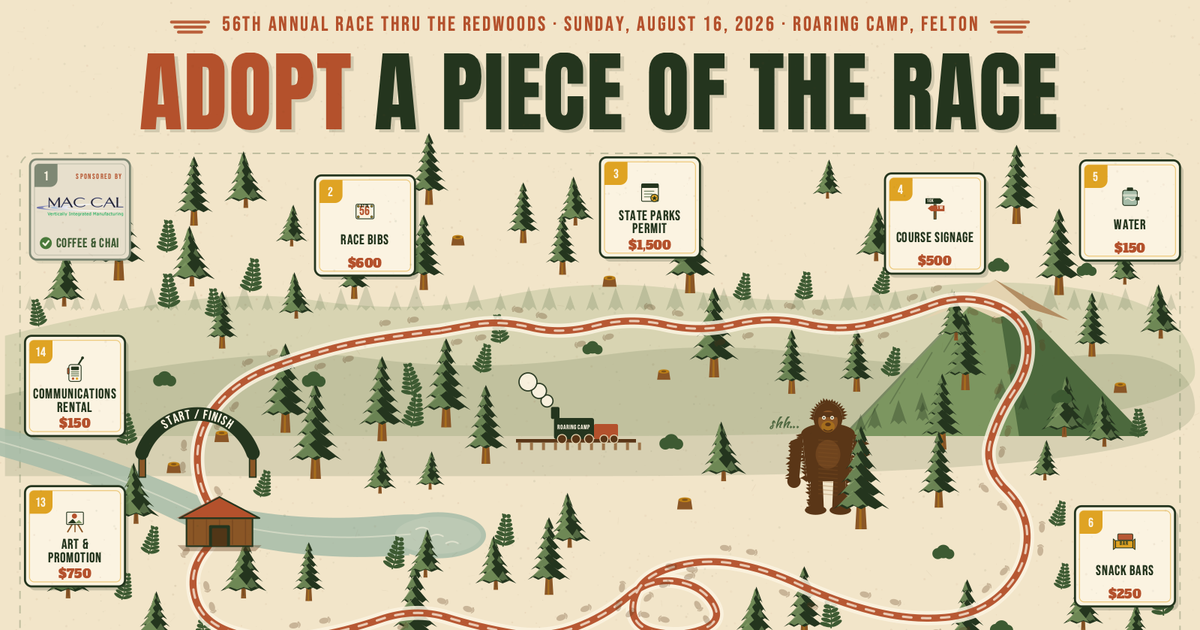
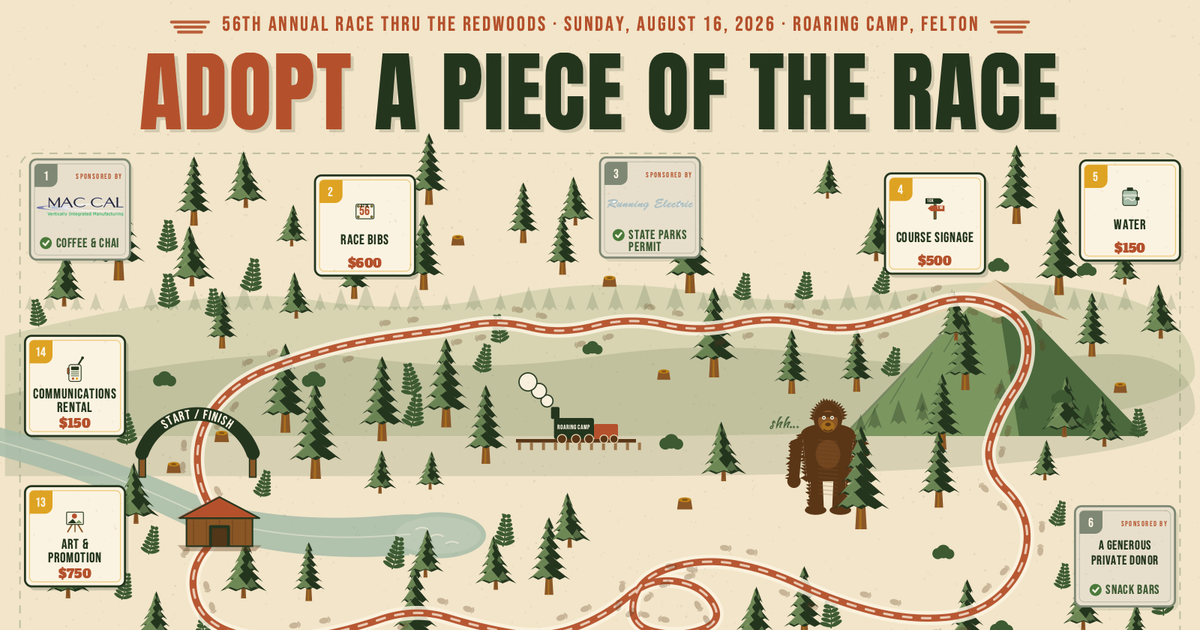
deploy: c5d8d52a4024b1d477da09c6f39f513cd0139389

Changed region(s): [[0.8942, 0.7841, 0.9867, 0.9651], [0.4933, 0.2413, 0.5858, 0.4222]]

diff --git a/sponsors/piece/index.html b/sponsors/piece/index.html
@@ -70,17 +70,11 @@
         <div class="piece-hotspot-zone piece-hotspot-zone--2">
           <a class="piece-hotspot" href="https://forms.gle/Kpu1gbuBeyG7V8hHA" target="_blank">Sponsor This &mdash; $600</a>
         </div>
-        <div class="piece-hotspot-zone piece-hotspot-zone--3">
-          <a class="piece-hotspot" href="https://forms.gle/Kpu1gbuBeyG7V8hHA" target="_blank">Sponsor This &mdash; $1,500</a>
-        </div>
         <div class="piece-hotspot-zone piece-hotspot-zone--4">
           <a class="piece-hotspot" href="https://forms.gle/Kpu1gbuBeyG7V8hHA" target="_blank">Sponsor This &mdash; $500</a>
         </div>
         <div class="piece-hotspot-zone piece-hotspot-zone--5">
           <a class="piece-hotspot" href="https://forms.gle/Kpu1gbuBeyG7V8hHA" target="_blank">Sponsor This &mdash; $150</a>
-        </div>
-        <div class="piece-hotspot-zone piece-hotspot-zone--6">
-          <a class="piece-hotspot" href="https://forms.gle/Kpu1gbuBeyG7V8hHA" target="_blank">Sponsor This &mdash; $250</a>
         </div>
         <div class="piece-hotspot-zone piece-hotspot-zone--7">
           <a class="piece-hotspot" href="https://forms.gle/Kpu1gbuBeyG7V8hHA" target="_blank">Sponsor This &mdash; $700</a>
@@ -130,14 +124,11 @@
         </div>
 
         <div class="col-sm-6 col-lg-4 mb-3">
-          <div class="card h-100 piece-card">
+          <div class="card h-100 piece-card piece-card--claimed">
             <div class="card-body">
-              <h5 class="card-title d-flex justify-content-between align-items-start">
-                <span>3. State Parks Permit</span>
-                <span class="piece-card-price">$1,500</span>
-              </h5>
+              <h5 class="card-title">3. State Parks Permit</h5>
+              <p class="card-text piece-card-claimed-by"><span aria-hidden="true">&#10003;</span> Sponsored by Running Electric</p>
             </div>
-            <a class="piece-card-cta" href="https://forms.gle/Kpu1gbuBeyG7V8hHA" target="_blank">Sponsor This Piece &mdash; $1,500 &rarr;</a>
           </div>
         </div>
 
@@ -166,14 +157,11 @@
         </div>
 
         <div class="col-sm-6 col-lg-4 mb-3">
-          <div class="card h-100 piece-card">
+          <div class="card h-100 piece-card piece-card--claimed">
             <div class="card-body">
-              <h5 class="card-title d-flex justify-content-between align-items-start">
-                <span>6. Snack Bars</span>
-                <span class="piece-card-price">$250</span>
-              </h5>
+              <h5 class="card-title">6. Snack Bars</h5>
+              <p class="card-text piece-card-claimed-by"><span aria-hidden="true">&#10003;</span> Sponsored by a generous private donor</p>
             </div>
-            <a class="piece-card-cta" href="https://forms.gle/Kpu1gbuBeyG7V8hHA" target="_blank">Sponsor This Piece &mdash; $250 &rarr;</a>
           </div>
         </div>
 

diff --git a/sponsors.html b/sponsors.html
@@ -90,16 +90,14 @@
             </div>
           </div>
 
-          <div class="sponsor-tier sponsor-tier--platinum">
-            <h5>Platinum Sponsors <small class="text-muted">($3,000+)</small></h5>
-            <div class="row">
-              <!-- Not yet confirmed for 2026 -- uncomment and update once a sponsor at this level signs on -->
-            </div>
-          </div>
-
           <div class="sponsor-tier sponsor-tier--gold">
             <h5>Gold Sponsors <small class="text-muted">($2,000+)</small></h5>
             <div class="row">
+              <div class="col-6 col-md-4 col-lg-3">
+                <a class="sponsor-card" href="https://m.yelp.com/biz/john-fasolas-running-electric-felton" target="_blank">
+                  <img src="images/v2/sponsors/RunningElectric.png" alt="John Fasolas Running Electric logo" loading="lazy">
+                </a>
+              </div>
             </div>
           </div>
 
@@ -332,15 +330,6 @@
 
       <h4>Sponsorship Levels</h4>
       <div class="sponsor-level-cards">
-        <div class="card mb-3 sponsor-level-card sponsor-level-card--platinum">
-          <div class="card-body sponsor-level-card__body">
-            <div class="sponsor-level-card__label">
-              <h5 class="sponsor-level-name">Platinum</h5>
-              <div class="sponsor-level-price">$3,000</div>
-            </div>
-            <p class="card-text sponsor-level-desc">Top billing: your logo prominently featured on all race materials, our website, and social media, plus signage at the start, turnaround, and finish lines and lawn signs along the full course. Includes 5 complimentary race entries &amp; t-shirts.</p>
-          </div>
-        </div>
         <div class="card mb-3 sponsor-level-card sponsor-level-card--gold">
           <div class="card-body sponsor-level-card__body">
             <div class="sponsor-level-card__label">

diff --git a/index.html b/index.html
@@ -358,6 +358,9 @@ common areas. Runners can remove their masks for the race.</p>
           <a class="sponsor-marquee__logo" href="http://feltonveterinaryhospital.com/" target="_blank">
             <img src="images/v2/sponsors/FeltonVetHospital2026.jpg" alt="Felton Veterinary Hospital logo" loading="lazy">
           </a>
+          <a class="sponsor-marquee__logo" href="https://m.yelp.com/biz/john-fasolas-running-electric-felton" target="_blank">
+            <img src="images/v2/sponsors/RunningElectric.png" alt="John Fasolas Running Electric logo" loading="lazy">
+          </a>
           <a class="sponsor-marquee__logo" href="https://www.roaringcamp.com/" target="_blank" aria-hidden="true" tabindex="-1">
             <img src="images/v2/sponsors/roaring-camp.jpeg" alt="" loading="lazy">
           </a>
@@ -393,6 +396,9 @@ common areas. Runners can remove their masks for the race.</p>
           </a>
           <a class="sponsor-marquee__logo" href="http://feltonveterinaryhospital.com/" target="_blank" aria-hidden="true" tabindex="-1">
             <img src="images/v2/sponsors/FeltonVetHospital2026.jpg" alt="" loading="lazy">
+          </a>
+          <a class="sponsor-marquee__logo" href="https://m.yelp.com/biz/john-fasolas-running-electric-felton" target="_blank" aria-hidden="true" tabindex="-1">
+            <img src="images/v2/sponsors/RunningElectric.png" alt="" loading="lazy">
           </a>
         </div>
       </div>

diff --git a/css/core.css b/css/core.css
@@ -211,8 +211,7 @@ div.main{
     min-height: 105px;
 }
 
-.sponsor-tier--partners .sponsor-card,
-.sponsor-tier--platinum .sponsor-card {
+.sponsor-tier--partners .sponsor-card {
     height: 150px;
 }
 
@@ -283,7 +282,6 @@ div.main{
     }
 }
 
-.sponsor-level-card--platinum { --tier-color: #7c8b99; }
 .sponsor-level-card--gold { --tier-color: #c9a227; }
 .sponsor-level-card--silver { --tier-color: #9aa0a6; }
 .sponsor-level-card--bronze { --tier-color: #8a5a34; }
@@ -460,10 +458,8 @@ div.main{
 }
 
 .piece-hotspot-zone--2  { left: 26.250%; top: 21.111%; width: 8.333%; height: 11.111%; }
-.piece-hotspot-zone--3  { left: 50.000%; top: 19.111%; width: 8.333%; height: 11.111%; }
 .piece-hotspot-zone--4  { left: 73.750%; top: 20.889%; width: 8.333%; height: 11.111%; }
 .piece-hotspot-zone--5  { left: 90.000%; top: 19.444%; width: 8.333%; height: 11.111%; }
-.piece-hotspot-zone--6  { left: 89.583%; top: 57.778%; width: 8.333%; height: 11.111%; }
 .piece-hotspot-zone--7  { left: 87.917%; top: 74.444%; width: 8.333%; height: 11.111%; }
 .piece-hotspot-zone--8  { left: 67.292%; top: 75.444%; width: 8.333%; height: 11.111%; }
 .piece-hotspot-zone--10 { left: 34.792%; top: 75.667%; width: 8.333%; height: 11.111%; }
